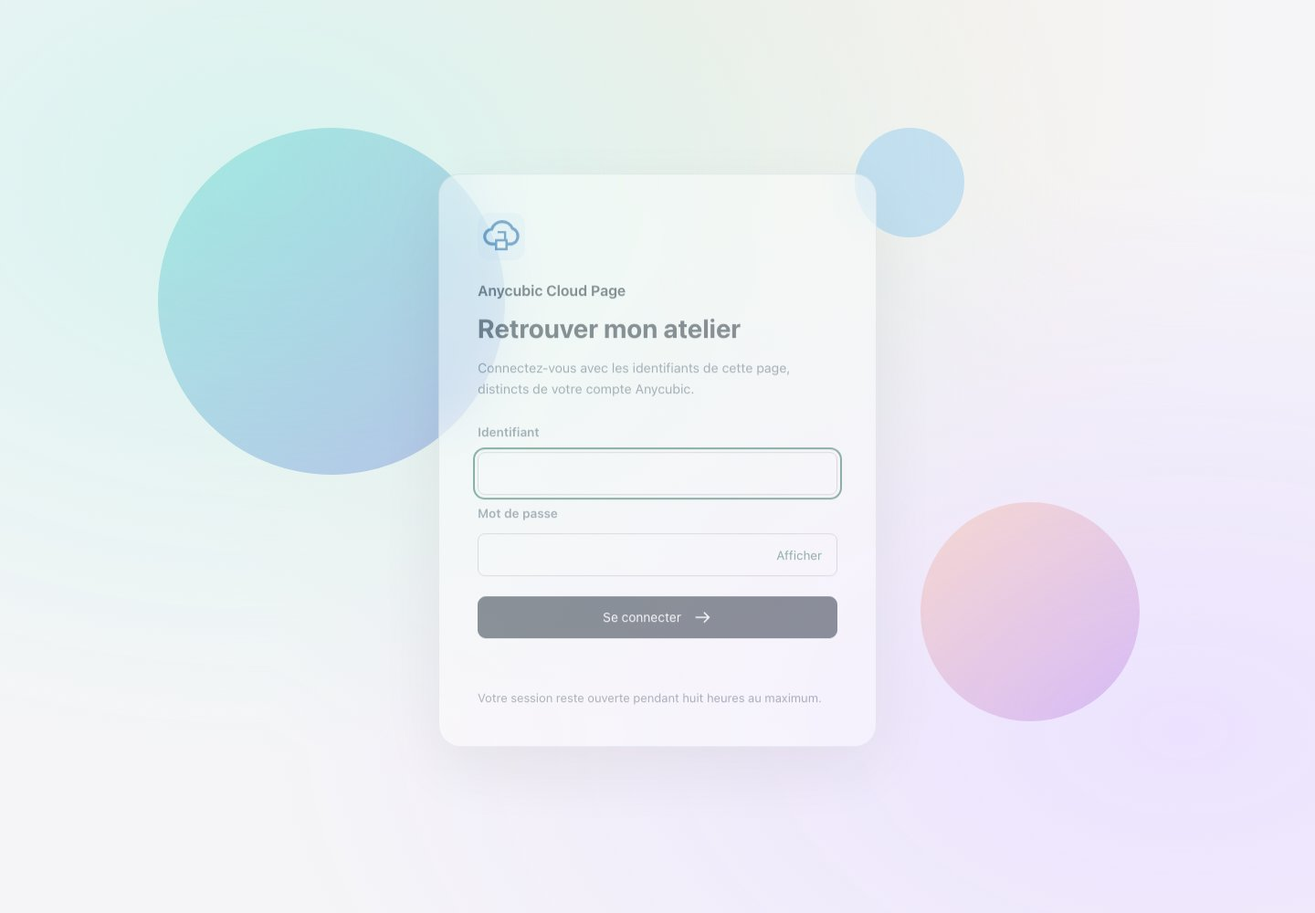
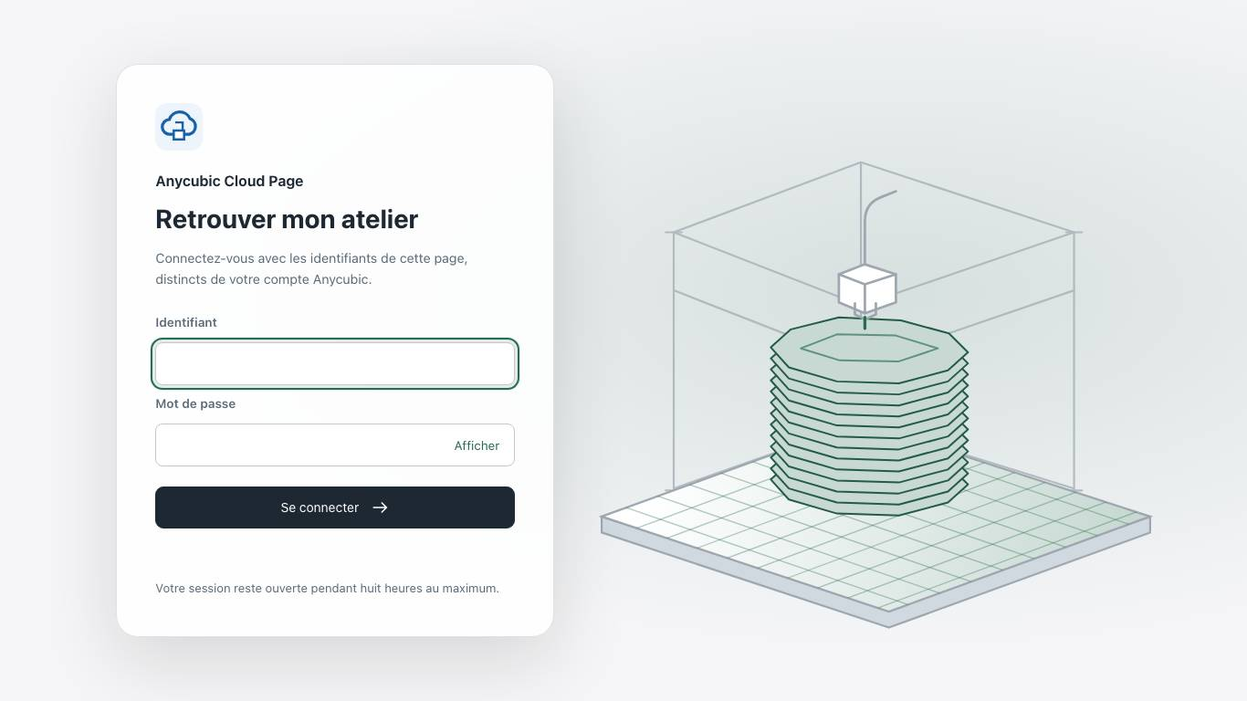
Animer une impression 3D sur la page de connexion
Fixes #215

diff --git a/web/imprimante.html b/web/imprimante.html
@@ -1,4 +1,4 @@
-<!doctype html><html lang="fr"><head><meta charset="utf-8"><meta name="viewport" content="width=device-width,initial-scale=1"><meta name="robots" content="noindex,nofollow"><meta name="color-scheme" content="light dark"><title>Anycubic Cloud Page</title><link rel="icon" href="/imprimante-api/ui/icons/cloud-page.svg" type="image/svg+xml"><link rel="apple-touch-icon" href="/imprimante-api/ui/icons/cloud-page.svg"><link rel="stylesheet" href="/imprimante-api/ui/css/landing.css?v=7579824b89fc"><link rel="stylesheet" href="/imprimante-api/ui/css/imprimante.css?v=51c117985c51"><link rel="stylesheet" href="/imprimante-api/ui/css/monitoring.css?v=99157dd22639"><link rel="stylesheet" href="/imprimante-api/ui/css/interactions.css?v=b0a341809df4"><link rel="stylesheet" href="/imprimante-api/ui/css/lab.css?v=ce09a14c795d"></head><body>
+<!doctype html><html lang="fr"><head><meta charset="utf-8"><meta name="viewport" content="width=device-width,initial-scale=1"><meta name="robots" content="noindex,nofollow"><meta name="color-scheme" content="light dark"><title>Anycubic Cloud Page</title><link rel="icon" href="/imprimante-api/ui/icons/cloud-page.svg" type="image/svg+xml"><link rel="apple-touch-icon" href="/imprimante-api/ui/icons/cloud-page.svg"><link rel="stylesheet" href="/imprimante-api/ui/css/landing.css?v=89cb872945db"><link rel="stylesheet" href="/imprimante-api/ui/css/imprimante.css?v=51c117985c51"><link rel="stylesheet" href="/imprimante-api/ui/css/monitoring.css?v=99157dd22639"><link rel="stylesheet" href="/imprimante-api/ui/css/interactions.css?v=b0a341809df4"><link rel="stylesheet" href="/imprimante-api/ui/css/lab.css?v=650748b54a1b"></head><body>
 <a class="skip-link" href="#atelier">Aller à l’imprimante</a><div class="shell printer-shell"><nav class="portal-nav" aria-label="Navigation principale"><a class="document-brand" href="/"><img src="/imprimante-api/ui/icons/cloud-page.svg" width="32" height="32" alt="" decoding="async"><span>Anycubic Cloud Page</span></a><div class="nav-actions"><select id="interface-language" aria-label="Langue de l’interface" data-language-options disabled><option value="fr">Français</option><option value="en">English</option><option value="es">Español</option></select><label id="printer-selector-wrap" class="printer-selector" hidden><span class="sr-only">Imprimante</span><select id="printer-selector" aria-label="Imprimante"></select></label><div class="notifications"><button id="notifications-toggle" type="button" aria-label="Notifications" aria-expanded="false" aria-controls="notifications-panel"><svg viewBox="0 0 24 24" class="ui-icon" fill="none" stroke="currentColor" stroke-width="1.7" aria-hidden="true"><path d="M5 17h14l-2-3V9a5 5 0 0 0-10 0v5zM10 20h4"/></svg><span id="notifications-dot" class="unread-dot" hidden aria-hidden="true"></span></button><section id="notifications-panel" class="notifications-panel" aria-label="Messages" hidden><div class="notifications-heading"><h2 id="notifications-title">Messages (0)</h2><button id="history-read-all" type="button">Tout marquer comme lu</button></div><button id="notifications-source" type="button" hidden>Journal historique</button><div class="notice-filters" role="group" aria-label="Filtrer les messages"><button data-notice-filter="all" aria-pressed="true" type="button">Tous</button><button data-notice-filter="unread" aria-pressed="false" type="button">Non lu <span id="notifications-filter-dot" class="unread-dot" hidden aria-hidden="true"></span></button><button data-notice-filter="read" aria-pressed="false" type="button">Lu</button></div><label class="notice-search"><svg viewBox="0 0 24 24" fill="none" stroke="currentColor" stroke-width="1.6" aria-hidden="true"><circle cx="10" cy="10" r="6"/><path d="m15 15 5 5"/></svg><span class="sr-only">Rechercher un message par nom de fichier</span><input id="notification-search" type="search" placeholder="Nom de fichier"></label><p id="history-state" role="status"></p><ol id="history-list" class="notification-list"></ol><button id="history-delete-all" type="button" class="danger">Supprimer tous les messages</button><button id="notifications-more" type="button" hidden>Charger les messages suivants</button></section></div><form action="/logout" method="post" class="logout-form"><button type="submit">Se déconnecter</button></form></div></nav>
 <header class="atelier-title"><div><h1 id="printer-model">Imprimante</h1><p id="printer-accessory" hidden></p></div><div><span id="connection" class="badge">Connexion…</span></div></header>
 <div class="atelier-navigation"><button id="section-menu-toggle" type="button" aria-expanded="false" aria-controls="atelier-tabs"><span class="section-menu-icon" aria-hidden="true">☷</span><span>Sections</span></button><nav id="atelier-tabs" class="atelier-tabs" aria-label="Sections de l’imprimante"><button type="button" disabled data-tab="overview" aria-current="page"><svg class="ui-icon" viewBox="0 0 24 24" fill="none" stroke="currentColor" stroke-width="1.7" stroke-linecap="round" stroke-linejoin="round" aria-hidden="true"><path d="M6 8V3h12v5M6 17H3V8h18v9h-3M6 14h12v7H6z"/><path d="M17 11h1"/></svg><span>Imprimante</span></button><button type="button" disabled data-tab="ace"><svg class="ui-icon" viewBox="0 0 24 24" fill="none" stroke="currentColor" stroke-width="1.7" stroke-linecap="round" stroke-linejoin="round" aria-hidden="true"><rect x="3" y="5" width="18" height="15" rx="3"/><path d="M3 10h18M7 13v4m5-4v4m5-4v4"/></svg><span>ACE et filaments</span></button><button type="button" disabled data-tab="files"><svg class="ui-icon" viewBox="0 0 24 24" fill="none" stroke="currentColor" stroke-width="1.7" stroke-linecap="round" stroke-linejoin="round" aria-hidden="true"><path d="M3 7V5h7l2 3h9v12H3z"/></svg><span>Fichiers</span></button><button type="button" disabled data-tab="upload"><svg class="ui-icon" viewBox="0 0 24 24" fill="none" stroke="currentColor" stroke-width="1.7" stroke-linecap="round" stroke-linejoin="round" aria-hidden="true"><path d="M12 16V3m-5 5 5-5 5 5M4 16v5h16v-5"/></svg><span>Envoyer et imprimer</span></button><button type="button" disabled data-tab="camera"><svg class="ui-icon" viewBox="0 0 24 24" fill="none" stroke="currentColor" stroke-width="1.7" stroke-linecap="round" stroke-linejoin="round" aria-hidden="true"><path d="M8 6l2-3h4l2 3h5v14H3V6z"/><circle cx="12" cy="12" r="4"/></svg><span>Caméra</span></button><button type="button" disabled data-tab="history"><svg class="ui-icon" viewBox="0 0 24 24" fill="none" stroke="currentColor" stroke-width="1.7" stroke-linecap="round" stroke-linejoin="round" aria-hidden="true"><path d="M3 4v5h5M3 9a9 9 0 1 1 1 9M12 7v6l4 2"/></svg><span>Historique d’impression</span></button><button type="button" disabled data-tab="statistics"><svg class="ui-icon" viewBox="0 0 24 24" fill="none" stroke="currentColor" stroke-width="1.7" aria-hidden="true"><path d="M3 3v18h18M5 16l5-6 4 3 6-8"/></svg><span>Statistiques</span></button><button type="button" disabled data-tab="fleet"><svg class="ui-icon" viewBox="0 0 24 24" fill="none" stroke="currentColor" stroke-width="1.7" aria-hidden="true"><rect x="2" y="3" width="8" height="8" rx="2"/><rect x="14" y="3" width="8" height="8" rx="2"/><rect x="8" y="15" width="8" height="7" rx="2"/></svg><span>Parc et santé</span></button><button type="button" disabled data-tab="settings"><svg class="ui-icon" viewBox="0 0 24 24" fill="none" stroke="currentColor" stroke-width="1.7" stroke-linecap="round" stroke-linejoin="round" aria-hidden="true"><path d="M4 7h16M4 17h16"/><circle cx="9" cy="7" r="3" fill="white"/><circle cx="15" cy="17" r="3" fill="white"/></svg><span>Réglages</span></button></nav></div>
@@ -56,4 +56,4 @@
 <section id="idle-controls" class="form-panel" hidden><h3>Réglages au repos</h3><p class="muted">Saisie manuelle dans les limites annoncées par l’imprimante. Zéro coupe la chauffe. Aucun profil de matériau n’est appliqué automatiquement.</p><form id="idle-temperature-form"><div class="settings-groups"><label>Buse au repos (°C)<input type="number" name="target_nozzle_temp" min="0" step="1" placeholder="Ne pas modifier" disabled></label><label>Plateau au repos (°C)<input type="number" name="target_hotbed_temp" min="0" step="1" placeholder="Ne pas modifier" disabled></label></div><button type="submit" disabled>Appliquer les températures</button></form><form id="idle-fan-form"><label>Ventilateur au repos<select name="fan" disabled><option value="fan_speed_pct">Pièce</option><option value="aux_fan_speed_pct">Auxiliaire</option></select></label><label>Vitesse au repos (%)<input type="number" name="value" min="0" max="100" step="1" required disabled></label><button type="submit" disabled>Appliquer la ventilation</button></form></section><form id="settings-form" class="print-settings" hidden><div class="settings-card-heading"><h3>Réglages d’impression</h3><span id="settings-availability" class="muted">En attente de l’état de l’imprimante</span></div><div class="settings-groups"><fieldset><legend>Températures</legend><label>Buse (°C)<input disabled name="target_nozzle_temp" type="number" min="0" max="320" placeholder="Ne pas modifier"></label><label>Plateau (°C)<input disabled name="target_hotbed_temp" type="number" min="0" max="120" placeholder="Ne pas modifier"></label></fieldset><fieldset><legend>Ventilation</legend><label>Pièce (%)<input disabled name="fan_speed_pct" type="number" min="0" max="100" placeholder="Ne pas modifier"></label><label>Auxiliaire (%)<input disabled name="aux_fan_speed_pct" type="number" min="0" max="100" placeholder="Ne pas modifier"></label><label>Enceinte (0–3)<input disabled name="box_fan_level" type="number" min="0" max="3" placeholder="Ne pas modifier"></label></fieldset><fieldset><legend>Vitesse</legend><label>Mode<select disabled name="print_speed_mode" id="speed-mode"><option value="">Ne pas modifier</option></select></label></fieldset></div><div class="settings-save"><p class="muted">Seuls les champs renseignés sont modifiés.</p><button disabled type="submit" class="primary">Appliquer les réglages</button></div></form><p id="control-feedback" class="muted" role="status"></p></dialog>
 <dialog id="reauth-dialog" class="settings-dialog" aria-labelledby="reauth-title"><div class="dialog-top"><h2 id="reauth-title">Confirmer avec le mot de passe web</h2><button class="dialog-close" type="button">Annuler</button></div><form id="reauth-form" method="dialog"><label>Mot de passe web<input name="password" type="password" autocomplete="current-password" required></label><p id="reauth-state" class="muted" role="status"></p><button type="submit" id="reauth-submit" class="primary">Confirmer</button></form></dialog>
 <dialog id="confirm-dialog"><h2 id="confirm-title">Confirmer</h2><p id="confirm-text"></p><div class="actions"><button id="confirm-no">Annuler</button><button id="confirm-yes" class="primary">Confirmer</button></div></dialog>
-<noscript>JavaScript est nécessaire pour cet atelier.</noscript><link rel="modulepreload" href="/imprimante-api/ui/js/workshop-ui.mjs?v=9d97ce06364c" integrity="sha256-nZfOBjZMKTEH6btkB7c71yyG7xhoDKRoaIZswRa0pf0=" crossorigin="anonymous"><link rel="modulepreload" href="/imprimante-api/ui/js/workshop-api.mjs?v=7d1c7225d9bd" integrity="sha256-fRxyJdm9u7l+O1EIHt2wc1mKOLdLp2tA54PyowW8gtc=" crossorigin="anonymous"><link rel="modulepreload" href="/imprimante-api/ui/js/workshop-temperatures.mjs?v=77a3ed1c2bd9" integrity="sha256-d6PtHCvZGNPMqQA4RWF6lVWP9mKB76jeMFCAl62uQYI=" crossorigin="anonymous"><link rel="modulepreload" href="/imprimante-api/ui/js/workshop-camera.mjs?v=4ed743a29b30" integrity="sha256-TtdDopswzYLAv/GLp9fnNK10zsykF5TdDTTA2eTDjM8=" crossorigin="anonymous"><link rel="modulepreload" href="/imprimante-api/ui/js/workshop-file-previews.mjs?v=25357d373d9e" integrity="sha256-JTV9Nz2elNEjY73jpq/Fjc+is7rBGhDYcKHa2MIZGf4=" crossorigin="anonymous"><link rel="modulepreload" href="/imprimante-api/ui/js/workshop-state.mjs?v=81b1204c8b64" integrity="sha256-gbEgTItkTKJ5uu4uf7cCroKIbZhl2sT/1m34J/K/FWM=" crossorigin="anonymous"><link rel="modulepreload" href="/imprimante-api/ui/js/workshop-commands.mjs?v=05b621e58cf0" integrity="sha256-BbYh5YzwHL1MQxIZbDhPD/OP3IO5umer+fA1t9TGQRg=" crossorigin="anonymous"><link rel="modulepreload" href="/imprimante-api/ui/js/workshop-overview.mjs?v=7af87df1caba" integrity="sha256-evh98cq6rb2dFgPAwBK8tKh7vBYJBXVqOZkUlIBpnf4=" crossorigin="anonymous"><link rel="modulepreload" href="/imprimante-api/ui/js/workshop-ace.mjs?v=309ba717a12c" integrity="sha256-MJunF6EsJuNEieXh5Hde6ezZTyu+jPwn5vUVhR7l2UM=" crossorigin="anonymous"><link rel="modulepreload" href="/imprimante-api/ui/js/workshop-selection.mjs?v=5acdd3934c74" integrity="sha256-Ws3Tk0x0KRNg3zRgzpNj+Uy1Sqwl1Sws0ytKpyYgAEI=" crossorigin="anonymous"><link rel="modulepreload" href="/imprimante-api/ui/js/workshop-files.mjs?v=ed90e3627784" integrity="sha256-7ZDjYneEzryhlvA4WSQDK0a0HY9ot/vRGCgr8WiNIyc=" crossorigin="anonymous"><link rel="modulepreload" href="/imprimante-api/ui/js/workshop-error-catalogue.mjs?v=b7032b1dcfc1" integrity="sha256-twMrHc/BweGXoQtIenm4amxsL17kDasmPx1APkw6ZMY=" crossorigin="anonymous"><link rel="modulepreload" href="/imprimante-api/ui/js/workshop-history.mjs?v=c2e44bdc3867" integrity="sha256-wuRL3DhnyoNki9W4OeTTMpifDL1uixPl5Qzu8LcimvU=" crossorigin="anonymous"><link rel="modulepreload" href="/imprimante-api/ui/js/workshop-settings.mjs?v=ff858df6d005" integrity="sha256-/4WN9tAFvth12eB6KkgjeD0L4osF6sqQjoG/d7GtjiE=" crossorigin="anonymous"><link rel="modulepreload" href="/imprimante-api/ui/js/workshop-timelapses.mjs?v=77381a380f59" integrity="sha256-dzgaOA9ZzjbMSG5sTBKFoNRdQJEHZ+jlWCcl838KK7I=" crossorigin="anonymous"><link rel="modulepreload" href="/imprimante-api/ui/js/workshop-help.mjs?v=a2f129000309" integrity="sha256-ovEpAAMJJS8ApF+Z+asHFAXmDCzfpvhAOGThw3xZCm0=" crossorigin="anonymous"><link rel="modulepreload" href="/imprimante-api/ui/js/workshop-fleet.mjs?v=3a69dd0f32a5" integrity="sha256-OmndDzKlhUYAVqHtXVejwm08XNNT5/XZ+IGGHBV2DTE=" crossorigin="anonymous"><link rel="modulepreload" href="/imprimante-api/ui/js/workshop-navigation.mjs?v=92b85c0cbfbc" integrity="sha256-krhcDL+8LJJyFrUcB7+D12oIBGYONtjejnVdqTIc748=" crossorigin="anonymous"><link rel="modulepreload" href="/imprimante-api/ui/js/workshop-login.mjs?v=fdd64a6a7a16" integrity="sha256-/dZKanoWHkcj+JAO13gjUHicj9eZtE5JR8tP10Ow6T8=" crossorigin="anonymous"><link rel="modulepreload" href="/imprimante-api/ui/js/workshop-interactions.mjs?v=44d2be251f06" integrity="sha256-RNK+JR8GC+LmWXCW6IhiiizX3lijfcIk9vOlvSfDFa0=" crossorigin="anonymous"><link rel="modulepreload" href="/imprimante-api/ui/js/workshop-monitoring.mjs?v=02c5f75e21d8" integrity="sha256-AsX3XiHYQSCTbGcR+tjqc0IvS6BHUVqfIGi3zDNt0J4=" crossorigin="anonymous"><link rel="modulepreload" href="/imprimante-api/ui/js/workshop-lab.mjs?v=b319ab844645" integrity="sha256-sxmrhEZFglPYKlQyA04xJX5XEJgrcPrIizkBO221P8k=" crossorigin="anonymous"><script id="workshop-script" type="module" src="/imprimante-api/ui/js/imprimante.js?v=bb9b1eeae514" integrity="sha256-u5se6uUUti/N1Rh03/dccvVFIZa4qrjfXTS9g3e8Dkg=" crossorigin="anonymous"></script></body></html>
+<noscript>JavaScript est nécessaire pour cet atelier.</noscript><link rel="modulepreload" href="/imprimante-api/ui/js/workshop-ui.mjs?v=9d97ce06364c" integrity="sha256-nZfOBjZMKTEH6btkB7c71yyG7xhoDKRoaIZswRa0pf0=" crossorigin="anonymous"><link rel="modulepreload" href="/imprimante-api/ui/js/workshop-api.mjs?v=7d1c7225d9bd" integrity="sha256-fRxyJdm9u7l+O1EIHt2wc1mKOLdLp2tA54PyowW8gtc=" crossorigin="anonymous"><link rel="modulepreload" href="/imprimante-api/ui/js/workshop-temperatures.mjs?v=77a3ed1c2bd9" integrity="sha256-d6PtHCvZGNPMqQA4RWF6lVWP9mKB76jeMFCAl62uQYI=" crossorigin="anonymous"><link rel="modulepreload" href="/imprimante-api/ui/js/workshop-camera.mjs?v=4ed743a29b30" integrity="sha256-TtdDopswzYLAv/GLp9fnNK10zsykF5TdDTTA2eTDjM8=" crossorigin="anonymous"><link rel="modulepreload" href="/imprimante-api/ui/js/workshop-file-previews.mjs?v=25357d373d9e" integrity="sha256-JTV9Nz2elNEjY73jpq/Fjc+is7rBGhDYcKHa2MIZGf4=" crossorigin="anonymous"><link rel="modulepreload" href="/imprimante-api/ui/js/workshop-state.mjs?v=81b1204c8b64" integrity="sha256-gbEgTItkTKJ5uu4uf7cCroKIbZhl2sT/1m34J/K/FWM=" crossorigin="anonymous"><link rel="modulepreload" href="/imprimante-api/ui/js/workshop-commands.mjs?v=05b621e58cf0" integrity="sha256-BbYh5YzwHL1MQxIZbDhPD/OP3IO5umer+fA1t9TGQRg=" crossorigin="anonymous"><link rel="modulepreload" href="/imprimante-api/ui/js/workshop-overview.mjs?v=7af87df1caba" integrity="sha256-evh98cq6rb2dFgPAwBK8tKh7vBYJBXVqOZkUlIBpnf4=" crossorigin="anonymous"><link rel="modulepreload" href="/imprimante-api/ui/js/workshop-ace.mjs?v=309ba717a12c" integrity="sha256-MJunF6EsJuNEieXh5Hde6ezZTyu+jPwn5vUVhR7l2UM=" crossorigin="anonymous"><link rel="modulepreload" href="/imprimante-api/ui/js/workshop-selection.mjs?v=5acdd3934c74" integrity="sha256-Ws3Tk0x0KRNg3zRgzpNj+Uy1Sqwl1Sws0ytKpyYgAEI=" crossorigin="anonymous"><link rel="modulepreload" href="/imprimante-api/ui/js/workshop-files.mjs?v=ed90e3627784" integrity="sha256-7ZDjYneEzryhlvA4WSQDK0a0HY9ot/vRGCgr8WiNIyc=" crossorigin="anonymous"><link rel="modulepreload" href="/imprimante-api/ui/js/workshop-error-catalogue.mjs?v=b7032b1dcfc1" integrity="sha256-twMrHc/BweGXoQtIenm4amxsL17kDasmPx1APkw6ZMY=" crossorigin="anonymous"><link rel="modulepreload" href="/imprimante-api/ui/js/workshop-history.mjs?v=c2e44bdc3867" integrity="sha256-wuRL3DhnyoNki9W4OeTTMpifDL1uixPl5Qzu8LcimvU=" crossorigin="anonymous"><link rel="modulepreload" href="/imprimante-api/ui/js/workshop-settings.mjs?v=ff858df6d005" integrity="sha256-/4WN9tAFvth12eB6KkgjeD0L4osF6sqQjoG/d7GtjiE=" crossorigin="anonymous"><link rel="modulepreload" href="/imprimante-api/ui/js/workshop-timelapses.mjs?v=77381a380f59" integrity="sha256-dzgaOA9ZzjbMSG5sTBKFoNRdQJEHZ+jlWCcl838KK7I=" crossorigin="anonymous"><link rel="modulepreload" href="/imprimante-api/ui/js/workshop-help.mjs?v=a2f129000309" integrity="sha256-ovEpAAMJJS8ApF+Z+asHFAXmDCzfpvhAOGThw3xZCm0=" crossorigin="anonymous"><link rel="modulepreload" href="/imprimante-api/ui/js/workshop-fleet.mjs?v=3a69dd0f32a5" integrity="sha256-OmndDzKlhUYAVqHtXVejwm08XNNT5/XZ+IGGHBV2DTE=" crossorigin="anonymous"><link rel="modulepreload" href="/imprimante-api/ui/js/workshop-navigation.mjs?v=92b85c0cbfbc" integrity="sha256-krhcDL+8LJJyFrUcB7+D12oIBGYONtjejnVdqTIc748=" crossorigin="anonymous"><link rel="modulepreload" href="/imprimante-api/ui/js/workshop-login.mjs?v=2403de636be0" integrity="sha256-JAPeY2vgdYo3eio82uyQNpMXKdW1iafcjIAG96KtwGU=" crossorigin="anonymous"><link rel="modulepreload" href="/imprimante-api/ui/js/workshop-interactions.mjs?v=44d2be251f06" integrity="sha256-RNK+JR8GC+LmWXCW6IhiiizX3lijfcIk9vOlvSfDFa0=" crossorigin="anonymous"><link rel="modulepreload" href="/imprimante-api/ui/js/workshop-monitoring.mjs?v=02c5f75e21d8" integrity="sha256-AsX3XiHYQSCTbGcR+tjqc0IvS6BHUVqfIGi3zDNt0J4=" crossorigin="anonymous"><link rel="modulepreload" href="/imprimante-api/ui/js/workshop-lab.mjs?v=b319ab844645" integrity="sha256-sxmrhEZFglPYKlQyA04xJX5XEJgrcPrIizkBO221P8k=" crossorigin="anonymous"><script id="workshop-script" type="module" src="/imprimante-api/ui/js/imprimante.js?v=bb9b1eeae514" integrity="sha256-u5se6uUUti/N1Rh03/dccvVFIZa4qrjfXTS9g3e8Dkg=" crossorigin="anonymous"></script></body></html>

diff --git a/web/css/landing.css b/web/css/landing.css
@@ -1,9 +1,96 @@
-/* Shared presentation styles; local images and system fonts. */
-.login-body { isolation:isolate; overflow-x:clip; }
-.login-orbits { position:fixed; inset:0; z-index:-1; overflow:hidden; pointer-events:none; background:radial-gradient(ellipse at 20% 20%,light-dark(#d8f3ef,#10363f),transparent 55%),radial-gradient(ellipse at 90% 80%,light-dark(#ece2ff,#302243),transparent 55%); }
-.login-orbits i { position:absolute; width:clamp(180px,28vw,380px); aspect-ratio:1; border-radius:50%; background:linear-gradient(140deg,#43d9c7,#526cd6); opacity:.35; top:14%; left:12%; }
-.login-orbits i:nth-child(2) { top:55%; left:70%; width:240px; background:linear-gradient(140deg,#ffb587,#af70e9); }
-.login-orbits i:nth-child(3) { width:120px; left:65%; top:14%; background:#71bdf2; }
+/* Socle de connexion : scène d’impression 3D et formulaire. */
+body.login-body {
+  isolation: isolate;
+  position: relative;
+  background:
+    radial-gradient(ellipse at 72% 42%, color-mix(in srgb,var(--accent) 15%,var(--bg)), transparent 61%),
+    var(--bg);
+}
+.login-print-scene {
+  --print-metal: color-mix(in srgb,var(--text) 28%,var(--line));
+  --print-fill: color-mix(in srgb,var(--accent) 26%,var(--surface));
+  --print-edge: color-mix(in srgb,var(--accent) 74%,var(--text));
+  --print-raster: color-mix(in srgb,var(--accent) 35%,transparent);
+  position: absolute;
+  z-index: -1;
+  inset: 0;
+  display: grid;
+  place-items: center end;
+  overflow: clip;
+  pointer-events: none;
+}
+.login-print-art {
+  display: block;
+  width: min(61vw,850px);
+  max-height: 95%;
+  margin-inline-end: max(0px,calc((100vw - 1450px) / 2));
+}
+.print-frame,.print-grid,.print-head-wire,.print-head-face {
+  stroke-linejoin: round;
+  stroke-linecap: round;
+}
+.print-frame { stroke: var(--print-metal); stroke-width: 2; opacity: .7; }
+.print-bed { stroke: var(--print-metal); stroke-width: 2; }
+.print-bed-near { stop-color: var(--surface); }
+.print-bed-far { stop-color: var(--print-fill); }
+.print-bed-edge { fill: var(--line); stroke: var(--print-metal); stroke-width: 2; stroke-linejoin: round; }
+.print-grid { stroke: var(--print-raster); stroke-width: 1.2; }
+.print-layers use,.print-top {
+  fill: var(--print-fill);
+  stroke: var(--print-edge);
+  stroke-width: 1.8;
+  stroke-linejoin: round;
+  animation: print-deposit 360ms ease-out both;
+  animation-delay: calc(280ms + var(--layer) * 400ms);
+}
+.print-top { stroke: var(--accent); fill: none; opacity: .65; }
+.print-head { animation: print-traverse 5.8s var(--motion-ease) both; }
+.print-head-wire,.print-head-face { stroke: var(--print-metal); stroke-width: 2.5; }
+.print-head-shell { fill: var(--surface); stroke: var(--print-metal); stroke-width: 2.5; stroke-linejoin: round; }
+.print-nozzle { stroke: var(--accent); stroke-width: 3; stroke-linecap: round; }
+
+@keyframes print-deposit {
+  from { opacity: 0; }
+  to { opacity: 1; }
+}
+@keyframes print-traverse {
+  0% { transform: translate(-42px,153px); }
+  15% { transform: translate(43px,145px); }
+  29% { transform: translate(-34px,121px); }
+  43% { transform: translate(47px,94px); }
+  57% { transform: translate(-39px,73px); }
+  72% { transform: translate(39px,58px); }
+  89% { transform: translate(-15px,37px); }
+  100% { transform: translate(0,23px); }
+}
+
+/* Les styles gardent leur accent et modulent le tracé du même objet. */
+[data-style="apple"] .login-print-scene { --print-metal: color-mix(in srgb,var(--accent) 26%,var(--line)); }
+[data-style="detailed"] .login-print-scene { --print-raster: color-mix(in srgb,var(--accent) 48%,transparent); }
+[data-style="blueprint"] .login-print-scene { --print-fill: color-mix(in srgb,var(--accent) 16%,var(--surface)); }
+[data-style="aurora"] .login-print-scene { --print-fill: color-mix(in srgb,var(--accent) 32%,var(--surface)); }
+[data-style="ocean"] .login-print-scene { --print-edge: color-mix(in srgb,var(--accent) 67%,var(--text)); }
+[data-style="lab"] .login-print-scene { --print-metal: color-mix(in srgb,var(--accent) 38%,var(--line)); }
+[data-login-motion="paused"] .login-print-scene * { animation-play-state: paused; }
+
+@media (min-width: 900px) {
+  .login-body .login-card { justify-self: start; margin-inline-start: clamp(32px, 8vw, 160px); }
+}
+@media (max-width: 899px) {
+  .login-print-scene { place-items: center; opacity: .28; }
+  .login-print-art { width: min(140vw,680px); max-width: none; margin: 0; }
+}
+@media (max-width: 600px) {
+  .login-print-scene { place-items: start center; opacity: .82; }
+  .login-print-art { width: min(79vw,340px); margin-block-start: -46px; }
+  .login-body .login-card { margin-block-start: 96px; }
+}
+@media (prefers-reduced-motion: reduce) {
+  .print-layers use,.print-top,.print-head { animation: none; }
+  .print-head { transform: translate(0,23px); }
+}
+
+/* Formulaire de connexion et retours du serveur. */
 .login-body .login-card { position:relative; width:min(100%,480px); padding:clamp(24px,6vw,42px); background:color-mix(in srgb,var(--surface) 89%,transparent); border:1px solid color-mix(in srgb,var(--line) 75%,transparent); box-shadow:0 24px 80px #0002,inset 0 1px 0 #ffffff50; backdrop-filter:blur(24px); -webkit-backdrop-filter:blur(24px); animation:login-arrive var(--motion-panel) var(--motion-ease); }
 .login-body .login-card input { min-height:48px; transition:border-color .18s,box-shadow .18s; }
 .login-body .login-card input:focus-visible { outline:2px solid var(--accent); outline-offset:3px; box-shadow:0 0 0 6px color-mix(in srgb,var(--accent) 12%,transparent); }

diff --git a/web/login.html b/web/login.html
@@ -8,9 +8,54 @@
 <link rel="icon" href="/imprimante-api/ui/icons/cloud-page.svg" type="image/svg+xml">
 <link rel="stylesheet" href="/imprimante-api/ui/css/landing.css">
 <link rel="stylesheet" href="/imprimante-api/ui/css/imprimante.css">
-<link rel="stylesheet" href="/imprimante-api/ui/css/lab.css?v=ce09a14c795d"></head>
+<link rel="stylesheet" href="/imprimante-api/ui/css/lab.css?v=650748b54a1b"></head>
 <body class="login-body">
-<div class="login-orbits" aria-hidden="true"><i></i><i></i><i></i></div>
+<!-- La scène est décorative et laisse le formulaire premier dans l’ordre de lecture. -->
+<div class="login-print-scene" aria-hidden="true">
+  <svg class="login-print-art" viewBox="0 0 760 620" fill="none" focusable="false">
+    <defs>
+      <linearGradient id="print-bed-light" x1="164" y1="450" x2="629" y2="556" gradientUnits="userSpaceOnUse">
+        <stop class="print-bed-near"/>
+        <stop class="print-bed-far" offset="1"/>
+      </linearGradient>
+      <path id="print-layer-shape" d="M284 439 304 421 352 409 414 412 462 425 481 444 461 462 412 475 350 473 302 459Z"/>
+      <clipPath id="print-bed-clip"><path d="M115 476 374 382 663 476 402 571Z"/></clipPath>
+    </defs>
+    <g class="print-frame">
+      <path d="M187 450V192L374 122 587 192V450M187 192l187 73 213-73M374 122v260"/>
+      <path d="M187 250l187 73 213-73M187 448l187-66 213 66"/>
+      <path d="M179 450h16m384 0h16M179 192h16m384 0h16"/>
+    </g>
+    <path class="print-bed-edge" d="M115 476 402 571 663 476V492L402 587 115 492Z"/>
+    <path class="print-bed" fill="url(#print-bed-light)" d="M115 476 374 382 663 476 402 571Z"/>
+    <g class="print-grid" clip-path="url(#print-bed-clip)">
+      <path d="M89 472 423 587M119 460 453 575M149 448 483 563M179 436 513 551M209 424 543 539M239 412 573 527M269 400 603 515M299 388 633 503M329 376 663 491M359 364 693 479"/>
+      <path d="M117 500 451 376M147 510 481 386M177 520 511 396M207 530 541 406M237 540 571 416M267 550 601 426M297 560 631 436M327 570 661 446M357 580 691 456M387 590 721 466"/>
+    </g>
+    <g class="print-layers">
+      <use href="#print-layer-shape" transform="translate(0 0)" style="--layer:0"/>
+      <use href="#print-layer-shape" transform="translate(0 -11)" style="--layer:1"/>
+      <use href="#print-layer-shape" transform="translate(0 -22)" style="--layer:2"/>
+      <use href="#print-layer-shape" transform="translate(0 -33)" style="--layer:3"/>
+      <use href="#print-layer-shape" transform="translate(0 -44)" style="--layer:4"/>
+      <use href="#print-layer-shape" transform="translate(0 -55)" style="--layer:5"/>
+      <use href="#print-layer-shape" transform="translate(0 -66)" style="--layer:6"/>
+      <use href="#print-layer-shape" transform="translate(0 -77)" style="--layer:7"/>
+      <use href="#print-layer-shape" transform="translate(0 -88)" style="--layer:8"/>
+      <use href="#print-layer-shape" transform="translate(0 -99)" style="--layer:9"/>
+      <use href="#print-layer-shape" transform="translate(0 -110)" style="--layer:10"/>
+      <use href="#print-layer-shape" transform="translate(0 -121)" style="--layer:11"/>
+      <use href="#print-layer-shape" transform="translate(0 -132)" style="--layer:12"/>
+      <path class="print-top" style="--layer:13" d="m314 308 36-14 58 1 43 13-39 13-59-1Z"/>
+    </g>
+    <g class="print-head">
+      <path class="print-head-wire" d="M378 214V158q0-18 16-24l15-6"/>
+      <path class="print-head-shell" d="m352 211 26-10 31 10v28l-31 11-26-11Z"/>
+      <path class="print-head-face" d="m352 211 26 10 31-10m-31 10v29m-10-10v11l10 5 11-5v-11"/>
+      <path class="print-nozzle" d="M378 254v11"/>
+    </g>
+  </svg>
+</div>
 <main class="login-card">
 <img src="/imprimante-api/ui/icons/cloud-page.svg" width="52" height="52" alt="">
 <p class="login-brand">Anycubic Cloud Page</p>
@@ -27,5 +72,5 @@
 </form>
 <p class="login-note">Votre session reste ouverte pendant huit heures au maximum.</p>
 </main>
-<script id="workshop-language" type="module" src="/imprimante-api/ui/js/workshop-ui.mjs?v=9d97ce06364c" integrity="sha256-nZfOBjZMKTEH6btkB7c71yyG7xhoDKRoaIZswRa0pf0=" crossorigin="anonymous"></script><script id="login-interactions" type="module" src="/imprimante-api/ui/js/workshop-login.mjs?v=fdd64a6a7a16" integrity="sha256-/dZKanoWHkcj+JAO13gjUHicj9eZtE5JR8tP10Ow6T8=" crossorigin="anonymous"></script></body>
+<script id="workshop-language" type="module" src="/imprimante-api/ui/js/workshop-ui.mjs?v=9d97ce06364c" integrity="sha256-nZfOBjZMKTEH6btkB7c71yyG7xhoDKRoaIZswRa0pf0=" crossorigin="anonymous"></script><script id="login-interactions" type="module" src="/imprimante-api/ui/js/workshop-login.mjs?v=2403de636be0" integrity="sha256-JAPeY2vgdYo3eio82uyQNpMXKdW1iafcjIAG96KtwGU=" crossorigin="anonymous"></script></body>
 </html>

diff --git a/web/privacy.html b/web/privacy.html
@@ -1,6 +1,6 @@
 <!doctype html>
 <html lang="fr">
-<head><meta charset="utf-8"><meta name="viewport" content="width=device-width,initial-scale=1"><meta name="robots" content="noindex,nofollow"><title>Confidentialité · Anycubic Cloud Page</title><link rel="stylesheet" href="/imprimante-api/ui/css/landing.css"><link rel="stylesheet" href="/imprimante-api/ui/css/imprimante.css"><link rel="stylesheet" href="/imprimante-api/ui/css/lab.css?v=ce09a14c795d"></head>
+<head><meta charset="utf-8"><meta name="viewport" content="width=device-width,initial-scale=1"><meta name="robots" content="noindex,nofollow"><title>Confidentialité · Anycubic Cloud Page</title><link rel="stylesheet" href="/imprimante-api/ui/css/landing.css"><link rel="stylesheet" href="/imprimante-api/ui/css/imprimante.css"><link rel="stylesheet" href="/imprimante-api/ui/css/lab.css?v=650748b54a1b"></head>
 <body><main class="information-page"><a href="/imprimante.html">Retour à l’atelier</a><h1>Confidentialité</h1>
 <section><h2>Données traitées</h2><p>Cette application auto-hébergée utilise la connexion configurée par l’administrateur pour lire les appareils, l’état des impressions, les notifications et les fichiers accessibles au compte Anycubic. Les commandes et transferts que vous demandez sont transmis à Anycubic.</p></section>
 <section><h2>Données sur cette installation</h2><p>Le dossier privé peut contenir les identifiants configurés et les jetons de session. Les relevés de température et les préréglages sont enregistrés localement. Les aperçus et les références de téléchargement peuvent être gardés temporairement en mémoire.</p></section>

diff --git a/web/cookies.html b/web/cookies.html
@@ -1,6 +1,6 @@
 <!doctype html>
 <html lang="fr">
-<head><meta charset="utf-8"><meta name="viewport" content="width=device-width,initial-scale=1"><meta name="robots" content="noindex,nofollow"><title>Cookies et stockage local · Anycubic Cloud Page</title><link rel="stylesheet" href="/imprimante-api/ui/css/landing.css"><link rel="stylesheet" href="/imprimante-api/ui/css/imprimante.css"><link rel="stylesheet" href="/imprimante-api/ui/css/lab.css?v=ce09a14c795d"></head>
+<head><meta charset="utf-8"><meta name="viewport" content="width=device-width,initial-scale=1"><meta name="robots" content="noindex,nofollow"><title>Cookies et stockage local · Anycubic Cloud Page</title><link rel="stylesheet" href="/imprimante-api/ui/css/landing.css"><link rel="stylesheet" href="/imprimante-api/ui/css/imprimante.css"><link rel="stylesheet" href="/imprimante-api/ui/css/lab.css?v=650748b54a1b"></head>
 <body><main class="information-page"><a href="/imprimante.html">Retour à l’atelier</a><h1>Cookies et stockage local</h1>
 <section><h2>Session web</h2><p>Le cookie de session maintient l’accès pendant huit heures au maximum. La déconnexion le supprime et révoque la session. Il est HttpOnly et SameSite=Strict. Sur une installation HTTPS, il porte aussi le préfixe __Host- et l’attribut Secure.</p></section>
 <section><h2>Préférences du navigateur</h2><p>La langue, le thème et l’imprimante sélectionnés sont mémorisés dans le stockage local de ce navigateur. Ces préférences restent sur cet appareil jusqu’à leur modification ou à l’effacement des données du site.</p></section>

diff --git a/web/credits.html b/web/credits.html
@@ -1,6 +1,6 @@
 <!doctype html>
 <html lang="fr">
-<head><meta charset="utf-8"><meta name="viewport" content="width=device-width,initial-scale=1"><meta name="robots" content="noindex,nofollow"><title>Crédits · Anycubic Cloud Page</title><link rel="stylesheet" href="/imprimante-api/ui/css/landing.css"><link rel="stylesheet" href="/imprimante-api/ui/css/imprimante.css"><link rel="stylesheet" href="/imprimante-api/ui/css/lab.css?v=ce09a14c795d"></head>
+<head><meta charset="utf-8"><meta name="viewport" content="width=device-width,initial-scale=1"><meta name="robots" content="noindex,nofollow"><title>Crédits · Anycubic Cloud Page</title><link rel="stylesheet" href="/imprimante-api/ui/css/landing.css"><link rel="stylesheet" href="/imprimante-api/ui/css/imprimante.css"><link rel="stylesheet" href="/imprimante-api/ui/css/lab.css?v=650748b54a1b"></head>
 <body><main class="information-page"><a href="/imprimante.html">Retour à l’atelier</a><h1>Crédits</h1>
 <section><h2>Anycubic Cloud Page</h2><p>Atelier indépendant et code sous <a href="https://github.com/mcflykid/anycubic-cloud-page/blob/main/LICENSE">GPL-3.0-or-later</a>.</p></section>
 <section><h2>Composants et contributions</h2><p>Le client Python dérive du projet hass-anycubic_cloud_v3 de ljschmitt. Les adaptations du flux vidéo s’appuient sur le travail de RespawnDespair. La vidéo utilise le SDK Agora. Les illustrations de l’atelier sont des créations non officielles.</p></section>

diff --git a/web/terms.html b/web/terms.html
@@ -1,6 +1,6 @@
 <!doctype html>
 <html lang="fr">
-<head><meta charset="utf-8"><meta name="viewport" content="width=device-width,initial-scale=1"><meta name="robots" content="noindex,nofollow"><title>Conditions d’utilisation · Anycubic Cloud Page</title><link rel="stylesheet" href="/imprimante-api/ui/css/landing.css"><link rel="stylesheet" href="/imprimante-api/ui/css/imprimante.css"><link rel="stylesheet" href="/imprimante-api/ui/css/lab.css?v=ce09a14c795d"></head>
+<head><meta charset="utf-8"><meta name="viewport" content="width=device-width,initial-scale=1"><meta name="robots" content="noindex,nofollow"><title>Conditions d’utilisation · Anycubic Cloud Page</title><link rel="stylesheet" href="/imprimante-api/ui/css/landing.css"><link rel="stylesheet" href="/imprimante-api/ui/css/imprimante.css"><link rel="stylesheet" href="/imprimante-api/ui/css/lab.css?v=650748b54a1b"></head>
 <body><main class="information-page"><a href="/imprimante.html">Retour à l’atelier</a><h1>Conditions d’utilisation</h1>
 <section><h2>Objet</h2><p>Anycubic Cloud Page est un atelier indépendant et auto-hébergé pour consulter et commander des imprimantes associées à un compte Anycubic.</p></section>
 <section><h2>Accès</h2><p>Utilisez un compte et des équipements auxquels vous êtes autorisé à accéder. L’administrateur de l’installation gère les accès et protège le dossier de données.</p></section>

diff --git a/web/css/lab.css b/web/css/lab.css
@@ -45,7 +45,6 @@ html[data-style="lab"] { --accent:light-dark(#136f69,#6edfd0); --bg:light-dark(#
 [data-style="lab"] #tab-settings .extras-settings-grid { grid-template-columns:repeat(2,minmax(0,1fr)); gap:20px; }
 [data-style="lab"] #tab-settings .settings-appearance { border-top:3px solid var(--accent); }
 [data-style="lab"] .login-body .login-card { border-radius:12px 32px 12px 32px; border-top:3px solid var(--accent); }
-[data-style="lab"] .login-orbits { background:linear-gradient(135deg,var(--bg),color-mix(in srgb,var(--accent) 15%,var(--bg))); }
 @media(max-width:1100px) { [data-style="lab"] .printer-shell { grid-template-columns:190px minmax(0,1fr); gap:18px; } [data-style="lab"] #tab-camera .camera-layout { grid-template-columns:minmax(0,1fr); } [data-style="lab"] #tab-fleet .monitor-grid { grid-template-columns:repeat(2,minmax(0,1fr)); } [data-style="lab"] #tab-fleet .monitor-card:first-child { grid-column:auto; } }
 @media(max-width:760px) {
  [data-style="lab"] .printer-shell { display:flex; }

diff --git a/docs/INTERACTION-REFERENCES.md b/docs/INTERACTION-REFERENCES.md
@@ -64,3 +64,7 @@ paiement dans l’application. Toute animation a une variante sans mouvement.
 Esqueleto et Demora associent une forme stable à une attente différée. Un indicateur animé dès le clic ajoute un clignotement aux réponses rapides. La liste précédente reste visible pendant une actualisation du même contenu. Instrumental guide le regard vers le détail choisi. Pour la mesure elle-même, la valeur reste stable comme dans Grafana Stat. Une réaction discrète marque une valeur reçue qui change. Le fondu court pour le mode évite la grande révélation circulaire. Pour la navigation, le repère de section et le panneau de tuiles existant permettent de suivre la sélection en gardant toutes les destinations atteignables.
 
 Les conditions [Moxen](https://moxen.cl/terminos.html) encadrent la redistribution des ressources. [Apple](https://developer.apple.com/support/terms/), [Google](https://developers.google.com/terms/site-policies) et [MDN](https://developer.mozilla.org/en-US/docs/MDN/Writing_guidelines/Attrib_copyright_license) publient leurs propres conditions. [Carbon](https://github.com/carbon-design-system/carbon/blob/main/LICENSE) est sous Apache-2.0 et le dépôt [Grafana](https://github.com/grafana/grafana/blob/main/LICENSE) sous AGPL-3.0. Cette revue implémente ses mécanismes dans le projet avec du CSS et du JavaScript natifs.
+
+## Scène de connexion imprimée
+
+Les captures de formulaires translucides fournies par le propriétaire servent d’inspiration pour la lisibilité de la carte au premier plan. La scène de dépôt couche par couche, son tracé SVG et ses animations CSS sont des créations du projet. La pièce terminée sert de variante fixe et le navigateur suspend la scène quand la page est masquée.
